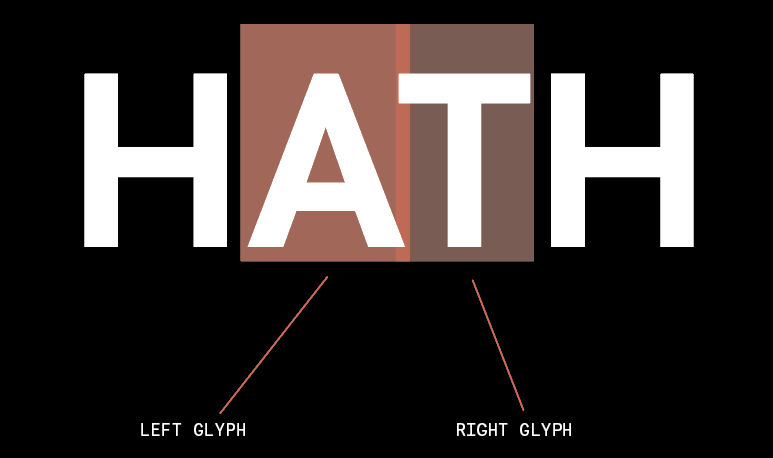
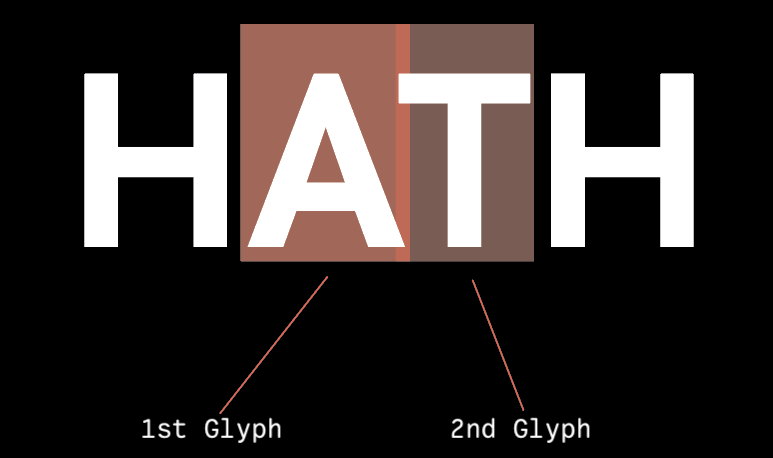
clarifications

Changed region(s): [[0.5899, 0.917, 0.7762, 0.9782], [0.1863, 0.917, 0.3726, 0.9782]]

diff --git a/index.html b/index.html
@@ -31,12 +31,12 @@
 			
 			
 			<div class="left-wrap clearfix">
-				<label for="leftglyphs">Left Glyphs</label>
+				<label for="leftglyphs">1st Glyphs</label>
 				<input type="text" id="leftglyphs" name="leftglyphs" class="textbox" />
 			</div><!-- /.left-wrap -->
 			
 			<div class="right-wrap clearfix">
-				<label for="rightglyphs">Right Glyphs</label>
+				<label for="rightglyphs">2nd Glyphs</label>
 				<input type="text" id="rightglyphs" name="rightglyphs" class="textbox" />
 			</div><!-- /.right-wrap -->
 			
@@ -56,8 +56,13 @@
 
 		<div class="help">
 
-			<p><strong>What is this?</strong><br />Given a list of left and right glyphs, this creates all the possible permutations, and sets them in control strings. Useful for building proofs for kerning.</p>
-			<p><strong>What is a left vs right glyph?</strong>
+			<p><strong>What is this?</strong><br />This creates all the possible combinations of the first glyphs with the second glyphs, and sets them in control strings. This is useful for building kerning proofs.</p>
+			<p>
+				For example, if the first glyphs are ‘abc’, and second glyphs are ‘xy’, it will generate a list of: ‘ax ay bx by cx cy’.
+			</p>
+
+			<p><strong>What are 1st vs 2nd glyphs?</strong><br />
+				This identifies which side of the kern pair the glyph belongs to. With the 1st glyphs, we’re looking at the right side of the glyph. With the 2nd, we’re looking at the left side. 
 			</p>
 			<p>
 				<img src='images/left-right-glyphs.png' alt='left and right glyphs example' />
